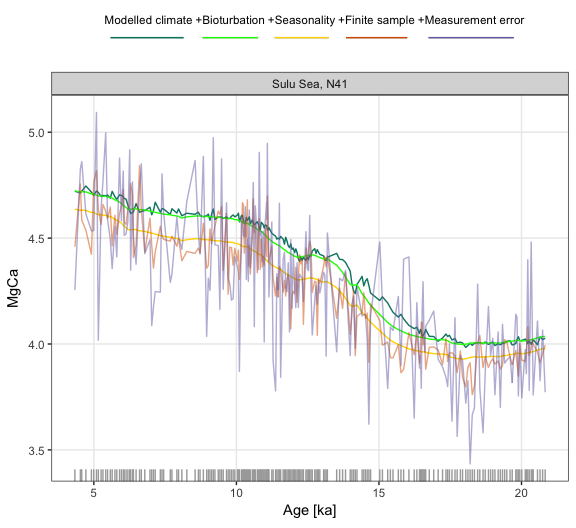
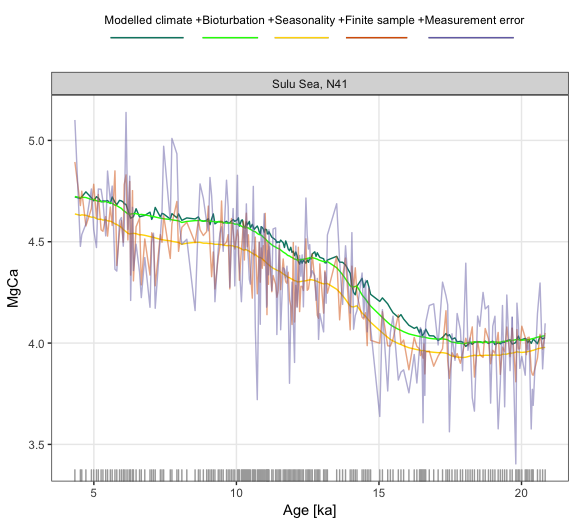
improve calibration documentation

diff --git a/readme.md b/readme.md
@@ -224,18 +224,19 @@ head(PFM$everything$proxy.bt.sb.sampYM.b.n)
 
 ### Proxy types
 
-The initial input climate signal is converted into "proxy units" if a `proxy.calibration.type` is specified. This simulates the Environment -> Sensor stage of the proxy system.
+The initial input climate signal can be converted into "proxy units" if a `proxy.calibration.type` is specified. This simulates the Environment -> Sensor stage of the proxy system.
 
 
 
 ```r
+set.seed(26052017)
 PFM_2 <- ClimToProxyClim(clim.signal = N41.t21k.climate[nrow(N41.t21k.climate):1,] - 273.15, 
                          timepoints = N41.proxy$Published.age,
                          proxy.calibration.type = "MgCa",
                          seas.prod = N41.G.ruber.seasonality,
                          sed.acc.rate = N41.proxy$Sed.acc.rate.m.yr,
                          meas.noise = 0.46, n.samples = 30,
-                         n.replicates = 10)
+                         n.replicates = 1)
 ```
 
 ```
@@ -250,8 +251,6 @@ PFM_2 <- ClimToProxyClim(clim.signal = N41.t21k.climate[nrow(N41.t21k.climate):1
 ## clim.signal
 ```
 
-
-**Simple plotting**
 
 
 ```r
@@ -280,6 +279,12 @@ plot.df %>%
 ```
 
 ![](readme_files/figure-html/MgCa_plot-1.png)<!-- -->
+
+
+
+
+
+
 
 
 
